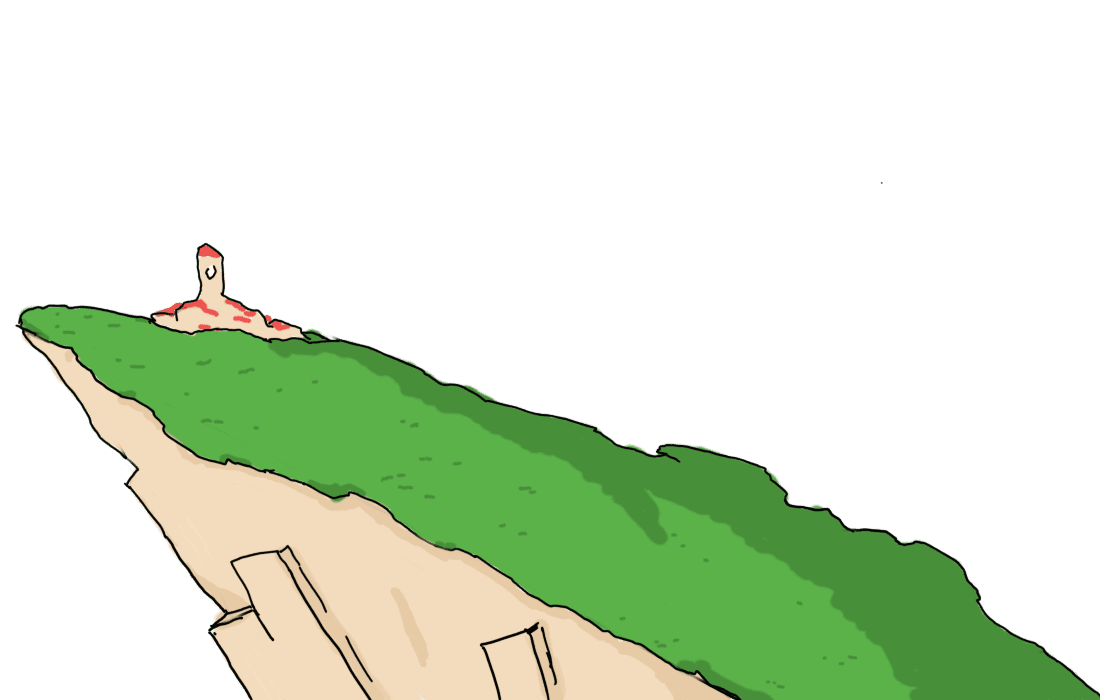
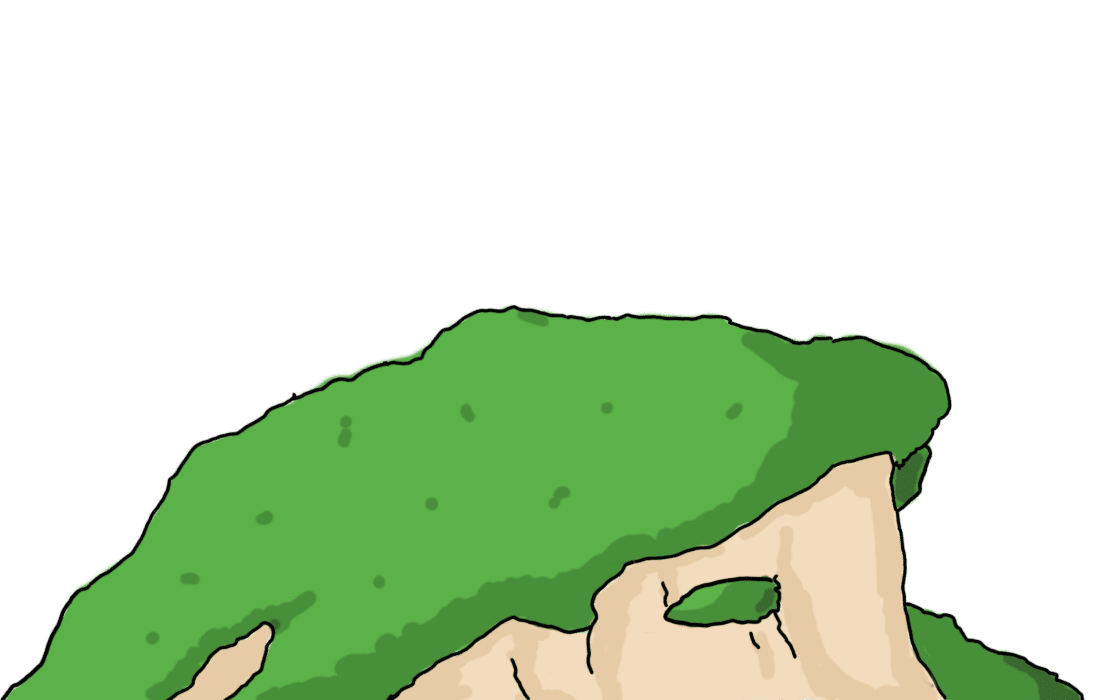
more background has been added

diff --git a/src/game/level/index.ts b/src/game/level/index.ts
@@ -59,12 +59,19 @@ export default class Level {
   }
 
   async setProps() {
-    const texture = await PIXI.Assets.load("props1");
-    const sprite = new PIXI.Sprite(texture);
-    sprite.x = config.WIDTH / 3;
-    sprite.zIndex = -1;
-    this._propsList.push(sprite);
-    this._propsContainer.addChild(sprite);
+    const textures = await PIXI.Assets.load(["props2", "props1"]);
+    console.log(textures);
+
+    let index = 0;
+    for (const [key] of Object.entries(textures)) {
+      const sprite = new PIXI.Sprite(textures[key]);
+      sprite.x = config.WIDTH / 3;
+      sprite.anchor.set(0.5, 1);
+      sprite.position.set(index, config.HEIGHT);
+      index = index + config.WIDTH;
+      this._propsList.push(sprite);
+      this._propsContainer.addChild(sprite);
+    }
   }
 
   updateProps() {
